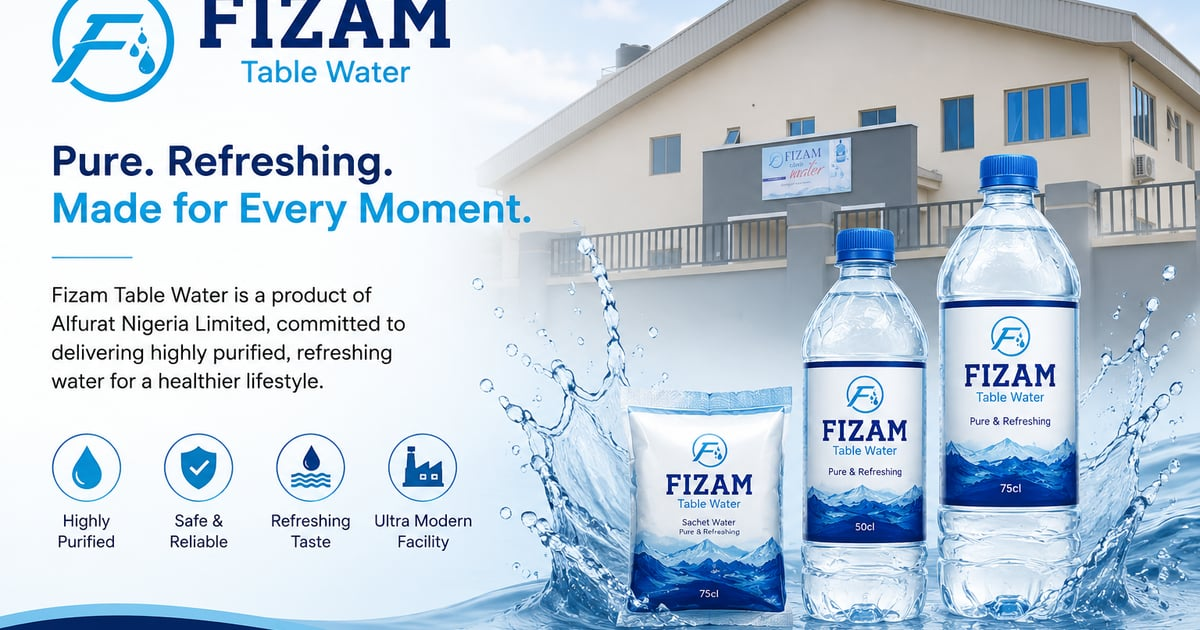
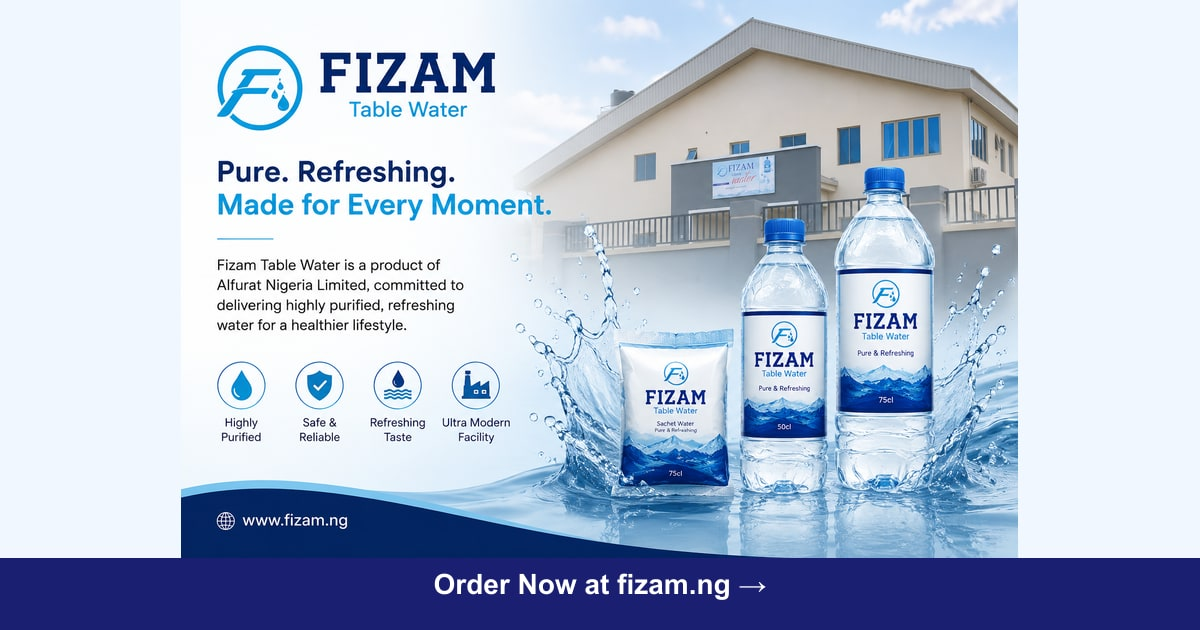
Update SEO optimizations, images, and frontend components

diff --git a/src/components/frontend/Hero.tsx b/src/components/frontend/Hero.tsx
@@ -158,13 +158,13 @@ export function Hero({
               </a>
             </div>
           </div>
-          <div className="relative mx-auto w-full max-w-md md:max-w-none">
-            <div className="relative z-10 aspect-square rounded-2xl shadow-2xl overflow-hidden">
+          <div className="relative mx-auto w-full max-w-lg md:max-w-none">
+            <div className="relative z-10 aspect-[3/2] rounded-2xl bg-white shadow-2xl overflow-hidden">
               <Image
                 src={imgSrc}
                 alt="Fizam Table Water Products"
                 fill
-                className="object-cover"
+                className="object-contain object-center"
                 priority
                 sizes="(max-width: 768px) 90vw, (max-width: 1024px) 50vw, 600px"
               />

diff --git a/src/lib/seo.ts b/src/lib/seo.ts
@@ -101,6 +101,19 @@ export function buildPageMetadata({
     metadataBase = new URL('https://www.fizam.ng')
   }
 
+  const facebookAppId =
+    process.env.NEXT_PUBLIC_FACEBOOK_APP_ID?.trim() ||
+    process.env.FACEBOOK_APP_ID?.trim() ||
+    ''
+
+  const otherMeta: Record<string, string> = {
+    'geo.region': 'NG',
+    'geo.placename': 'Nigeria',
+  }
+  if (facebookAppId) {
+    otherMeta['fb:app_id'] = facebookAppId
+  }
+
   return {
     title: metaTitle,
     description: metaDescription,
@@ -159,10 +172,7 @@ export function buildPageMetadata({
         alt: ogImageAlt,
       },
     },
-    other: {
-      'geo.region': 'NG',
-      'geo.placename': 'Nigeria',
-    },
+    other: otherMeta,
   }
 }
 

diff --git a/VERCEL_SETUP.md b/VERCEL_SETUP.md
@@ -27,6 +27,7 @@ Set these in your Vercel project settings:
 ### Required
 - `PAYLOAD_SECRET` - Generate: `node -e "console.log(require('crypto').randomBytes(48).toString('hex'))"`
 - `NEXT_PUBLIC_SITE_URL` - Full site URL **with `https://`**, preferably **`https://www.fizam.ng`** (matches your www redirect — required for WhatsApp link previews). Values without a protocol break dynamic pages at runtime.
+- `NEXT_PUBLIC_FACEBOOK_APP_ID` - Optional Facebook App ID (clears Sharing Debugger `fb:app_id` warning). Create a free app at [developers.facebook.com](https://developers.facebook.com/apps/).
 
 ### Optional (for CMS functionality on Vercel)
 - `DATABASE_URI` - **Remote only on Vercel** (e.g. Turso `libsql://...`). Do **not** use `file:./data/fizam.db` on Vercel — it is ephemeral and breaks serverless. Without a remote URI, the marketing site still runs; `/admin` needs Turso.
